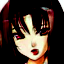
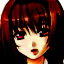
added support of Celeba model

diff --git a/pytorch-gan/ailia-pytorch-gnet.py b/pytorch-gan/ailia-pytorch-gnet.py
@@ -31,10 +31,9 @@ from model_utils import check_and_download_models  # noqa: E402
 # ======================
 # Parameters
 # ======================
-SAVE_IMAGE_PATH = 'output.png'
+SAVE_IMAGE_PATH = 'output.png' # default value
+MODEL_NAME = 'anime' # default value
 
-MODEL_PATH = 'pytorch-gnet-animeface.onnx.prototxt'
-WEIGHT_PATH = 'pytorch-gnet-animeface.onnx'
 REMOTE_PATH = f'https://storage.googleapis.com/ailia-models/pytorch-gan/'
 
 # =======================
@@ -42,6 +41,11 @@ REMOTE_PATH = f'https://storage.googleapis.com/ailia-models/pytorch-gan/'
 # =======================
 parser = argparse.ArgumentParser(
     description='Generation of anime character faces using a GNet trained from the PytorchZoo GAN.'
+)
+parser.add_argument(
+    '-m', '--model', metavar='MODEL_NAME',
+    default=MODEL_NAME,
+    help='Model to use ("anime" or "celeb". Default is "anime").'
 )
 parser.add_argument(
     '-s', '--savepath', metavar='SAVE_IMAGE_PATH',
@@ -55,6 +59,17 @@ parser.add_argument(
          'to measure execution performance.'
 )
 args = parser.parse_args()
+if args.model == 'anime':
+    print('Generation using model "Celeba"')
+    MODEL_INFIX = 'animeface'
+elif args.model == 'celeb':
+    print('Generation using model "AnimeFace"')
+    MODEL_INFIX = 'celeba'
+else:
+    print('Error: unknown model name "'+args.model+'" (must be "anime" or "celeb")')
+    exit(-1)
+MODEL_PATH = 'pytorch-gnet-'+MODEL_INFIX+'.onnx.prototxt'
+WEIGHT_PATH = 'pytorch-gnet-'+MODEL_INFIX+'.onnx'
 
 def generate_image():
     # prepare input data

diff --git a/pytorch-gan/README.md b/pytorch-gan/README.md
@@ -8,8 +8,8 @@
 
 ## Note
 
-The generative network presented and used here have been trained to generate anime faces
-by the company AX Inc (in 2020).
+The generative networks presented and used here have been trained to generate anime faces
+and celebrity faces by the company AX Inc (in 2020).
 
 The training was performed using the framework Pytorch-ZOO GAN.
 Software license agreement of Pytorch-Zoo GAN: see LICENSE file
